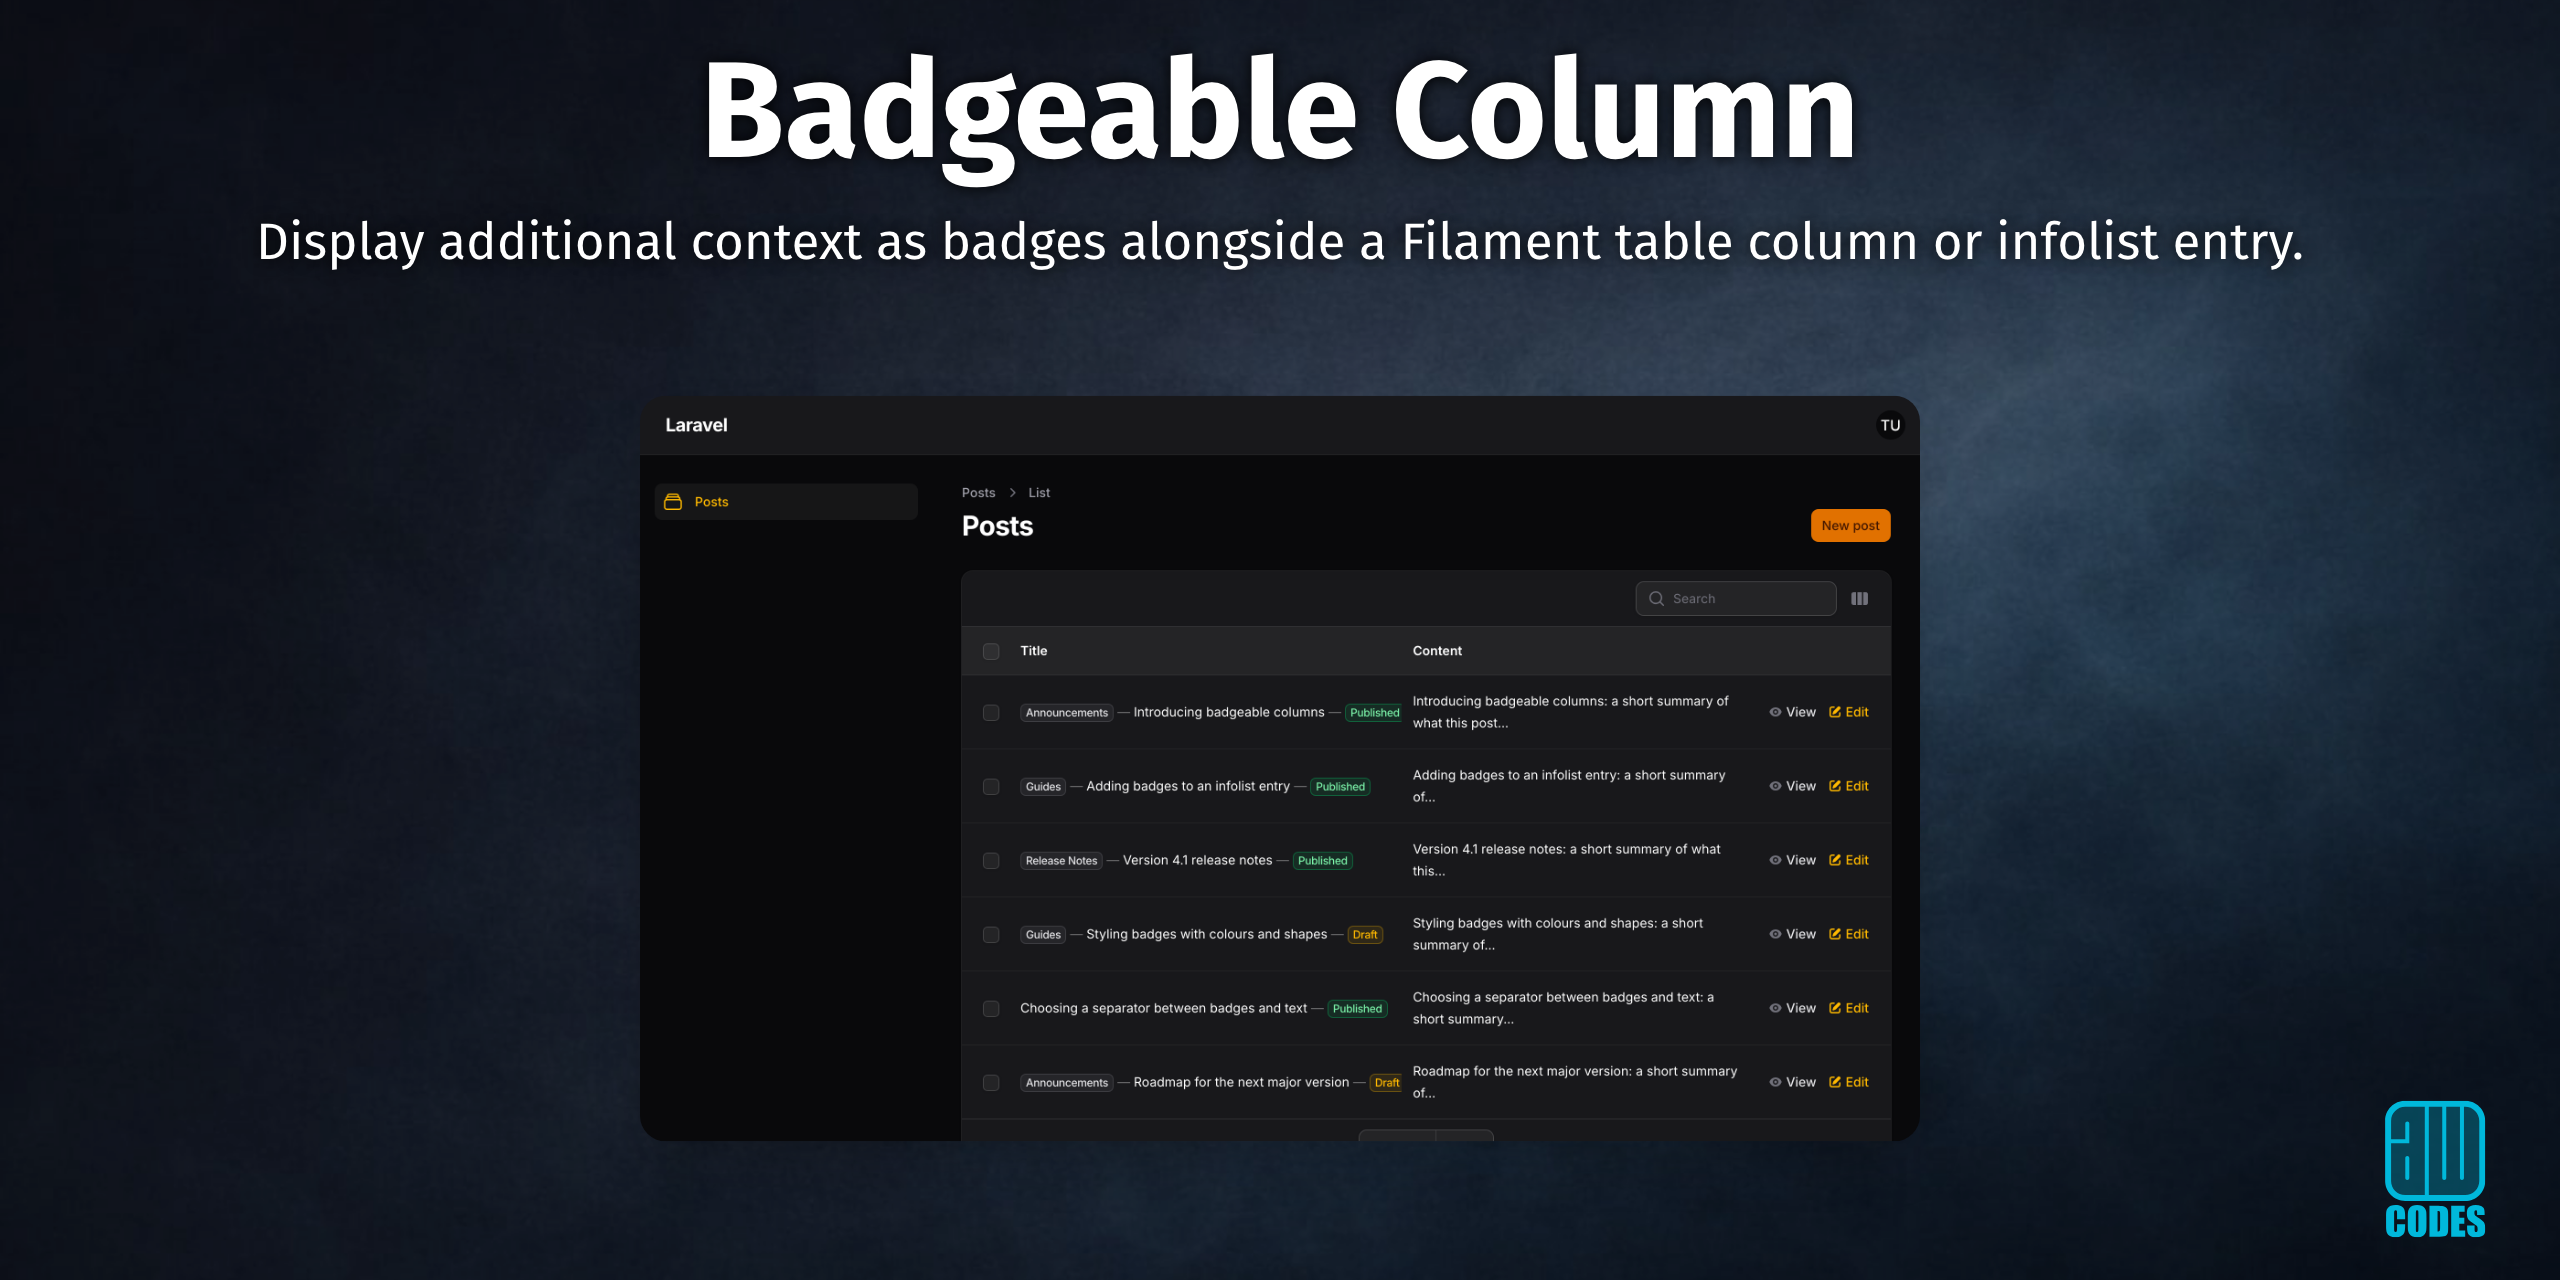
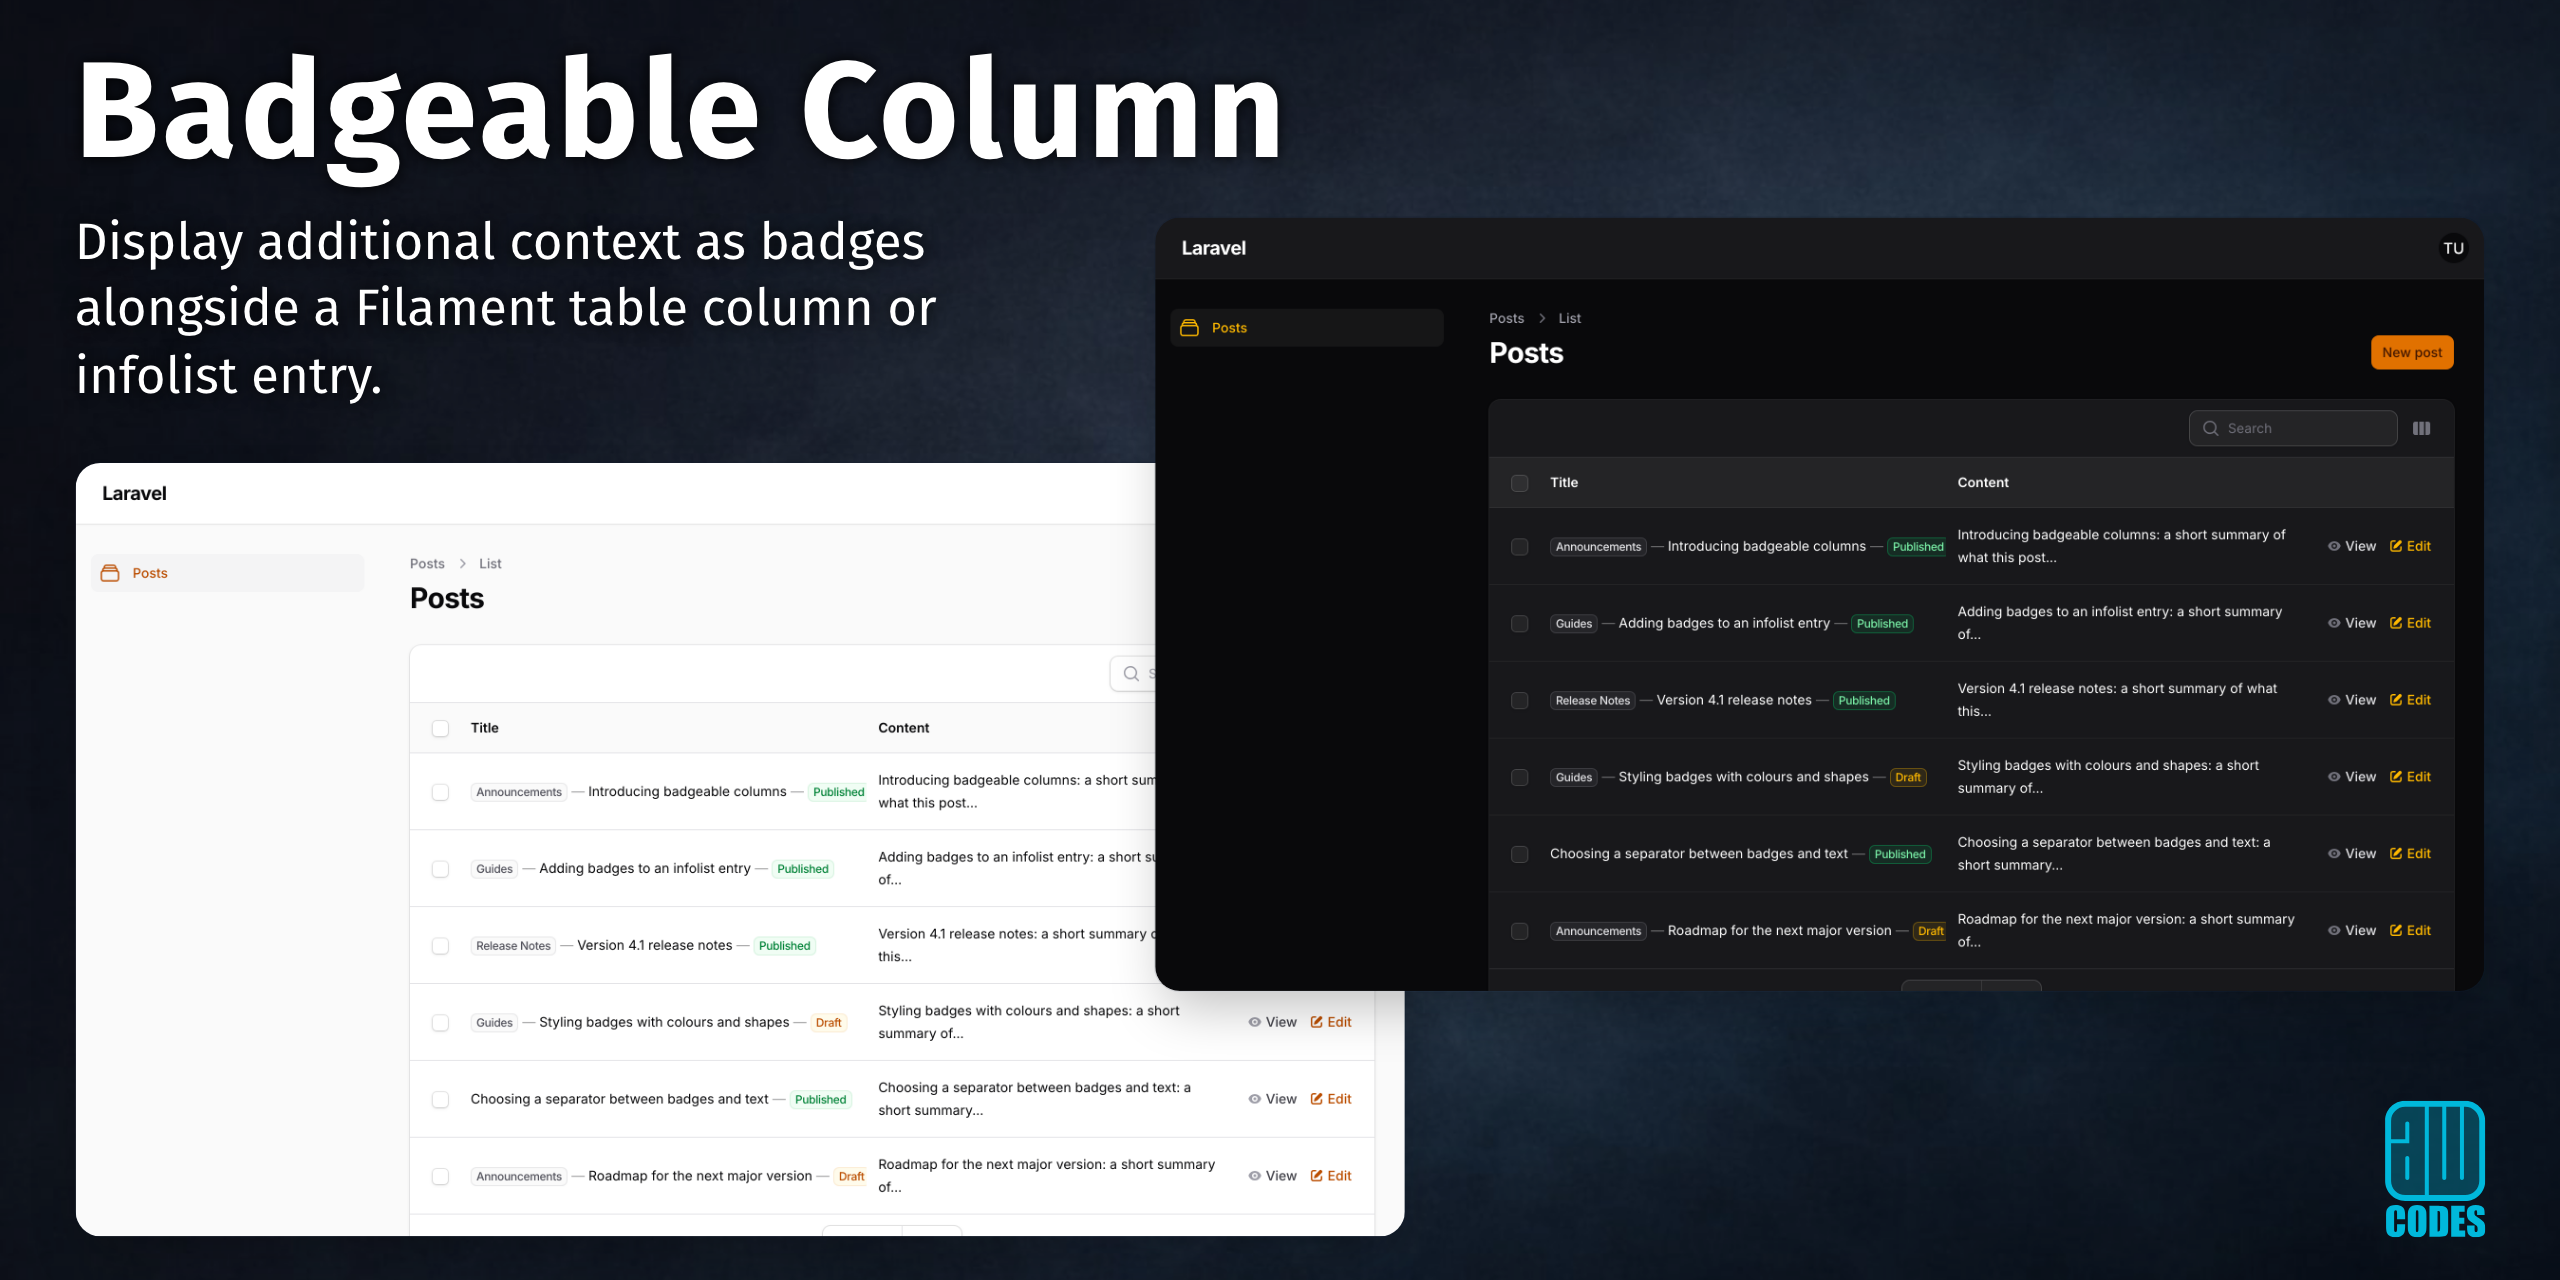
chore: render the share cards with the two-up templates
The Open Graph, GitHub social and Filament directory cards now use the
two-up templates, with the posts table dark in the first slot and light in
the second, so the card source is captured in both themes.

diff --git a/focus.php b/focus.php
@@ -4,7 +4,6 @@ declare(strict_types=1);
 
 use Awcodes\Focus\Card;
 use Awcodes\Focus\Enums\Size;
-use Awcodes\Focus\Enums\Theme;
 use Awcodes\Focus\Screenshot;
 use Awcodes\Focus\ScreenshotSuite;
 
@@ -29,27 +28,26 @@ return ScreenshotSuite::make()
             ->focus('[data-focus="title-entry"]')
             ->minSize(720, 120),
 
-        // The share-image source, shaped to the card templates' screenshot slot. Cards render dark.
+        // The share-image source, shaped to the card templates' screenshot slots. The two-up templates show it
+        // dark in slot 1 and light in slot 2, so it is captured in both themes.
         Screenshot::make('card-table')
             ->viewportSize(...$cardTable)
             ->visit('/admin/posts')
-            ->viewport()
-            ->themes([Theme::Dark]),
+            ->viewport(),
     ])
     ->cardTemplates('https://github.com/awcodes/focus-templates/tree/v1.1.0/dist')
     ->cards([
         // Open Graph and the GitHub social preview share one 2400x1260 template; GitHub crops 30px top and bottom.
         Card::make('social')
-            ->template('one-up-wide')
+            ->template('two-up-wide')
             ->title('Badgeable Column')
-            ->screenshots(['card-table'])
+            ->screenshots(['card-table', 'card-table'])
             ->sizes([Size::OpenGraph, Size::GitHubSocial]),
 
-        // The Filament plugin directory's 2560x1440 thumbnail. One-up, like the social card: in the two-up template
-        // the second slot sits behind the first, which hid the entry's suffix badge.
+        // The Filament plugin directory's 2560x1440 thumbnail.
         Card::make('thumbnail')
-            ->template('one-up')
+            ->template('two-up')
             ->title('Badgeable Column')
-            ->screenshots(['card-table'])
+            ->screenshots(['card-table', 'card-table'])
             ->sizes([Size::Filament]),
     ]);
